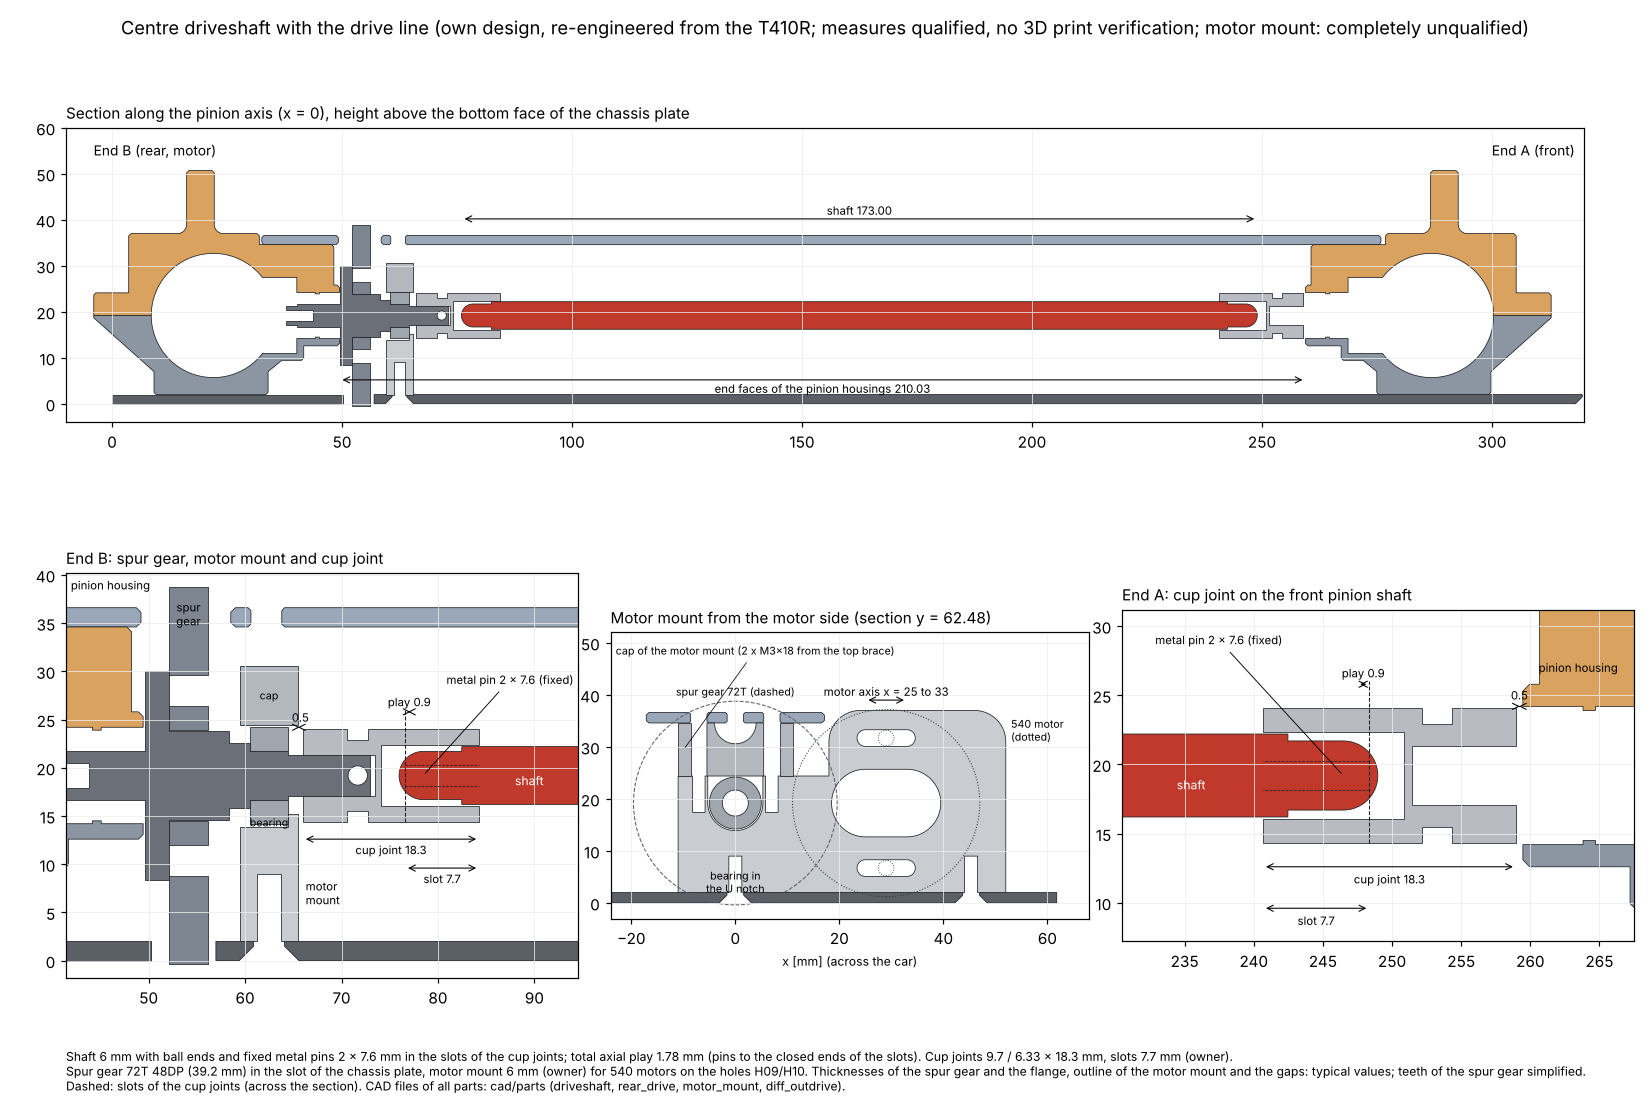
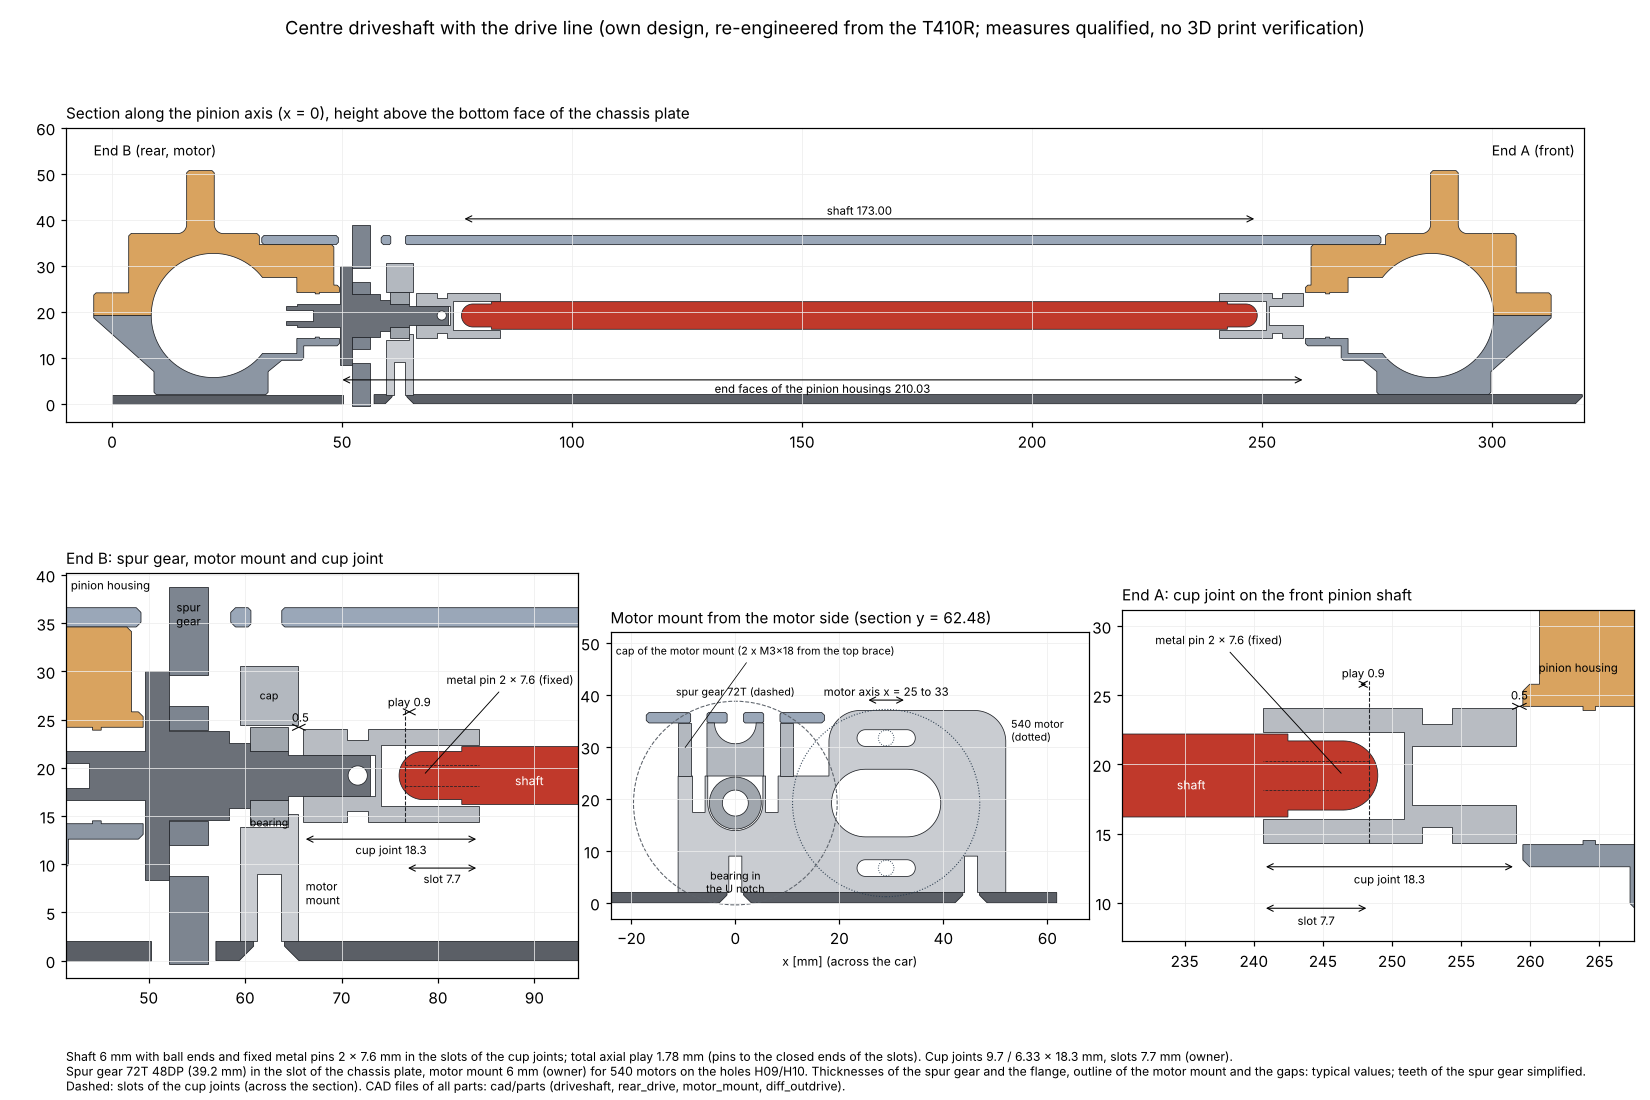
Mark the motor mount as measures qualified
- Motor mount with cap back to measures qualified, no 3D print verification
  (root readme, CAD readme, parts readme).
- Titles and notes of the drive line drawing and of the assembly pictures of
  the rear and the front drive updated.

Claude-Session: https://claude.ai/code/session_012MJxxFKjiSK74mxYNyHG3r

Changed region(s): [[0.0927, 0.0, 0.9273, 0.0309]]

diff --git a/scripts/cad/generate_driveshaft.py b/scripts/cad/generate_driveshaft.py
@@ -577,7 +577,7 @@ def drawing(path, p, lay, items):
     z = lay["z"]
     fig = plt.figure(figsize=(15, 10))
     fig.suptitle("Centre driveshaft with the drive line (own design, re-engineered from the T410R; measures "
-                 "qualified, no 3D print verification; motor mount: completely unqualified)", fontsize=12, y=0.985)
+                 "qualified, no 3D print verification)", fontsize=12, y=0.985)
     ax = fig.add_axes([0.04, 0.57, 0.92, 0.36])
     draw(ax)
     y0, y1 = lay["shaft"]
@@ -836,8 +836,8 @@ def drive_assembly_drawing(p, lp, path=ASSEMBLY_DRAWING):
                [(s, lab, pos) for s, lab, _, pos in moved])
         ax.set_title(f"{name}, exploded along the pinion axis: parts in the order on the shaft, from the pinion in the "
                      "bulkhead\nto the centre driveshaft", fontsize=9.5, loc="left")
-    fig.text(0.01, 0.012, "Status: pinion shafts, pinions, spur gear, bearings and retaining pins measures qualified, no 3D print "
-             "verification; motor mount with cap, cup joints: completely unqualified. CAD files: cad/parts (rear_drive, "
+    fig.text(0.01, 0.012, "Status: pinion shafts, pinions, spur gear, bearings, retaining pins and motor mount with cap: measures "
+             "qualified, no 3D print verification; cup joints: completely unqualified. CAD files: cad/parts (rear_drive, "
              "front_drive, motor_mount, driveshaft).", fontsize=8.5)
     fig.savefig(path, dpi=100)
     plt.close(fig)

diff --git a/readme.md b/readme.md
@@ -74,7 +74,7 @@ Re-engineered parts (own design, re-engineered from the T410R, not in the mass t
 | Cup joints of the centre driveshaft | 2 | $\color{red}\times$ Completely unqualified | `cad/parts/driveshaft` |
 | Rear pinion shaft with pinion 17T, spur gear 72T, bearings and retaining pin | 1 | $\color{gold}\blacktriangle$ Measures qualified, no 3D print verification | `cad/parts/rear_drive` |
 | Front pinion shaft with pinion 17T, bearings and retaining pin | 1 | $\color{gold}\blacktriangle$ Measures qualified, no 3D print verification | `cad/parts/front_drive` |
-| Motor mount with cap | 1 | $\color{red}\times$ Completely unqualified | `cad/parts/motor_mount` |
+| Motor mount with cap | 1 | $\color{gold}\blacktriangle$ Measures qualified, no 3D print verification | `cad/parts/motor_mount` |
 | Differential (End B) with ring gear 42T, inner gears and bearings | 1 | $\color{gold}\blacktriangle$ Measures qualified, no 3D print verification | `cad/parts/diff` |
 | Spool (End A) with ring gear 42T and bearings | 1 | $\color{gold}\blacktriangle$ Measures qualified, no 3D print verification | `cad/parts/diff` |
 | Diff outdrives | 4 | $\color{red}\times$ Completely unqualified | `cad/parts/diff_outdrive` |
@@ -90,7 +90,7 @@ Re-engineered parts (own design, re-engineered from the T410R, not in the mass t
 | Sway bars with holders, ball ends and drop links | 2 | $\color{red}\times$ Completely unqualified | `cad/running_gear/sway_bars` |
 | Dampers (standard 1:10 on-road, purchased) | 4 | $\color{red}\times$ Completely unqualified | Assembly only |
 
-* Status: $\color{green}\checkmark$ verified (test print or on the car), $\color{gold}\blacktriangle$ measures qualified, no 3D print verification, $\color{red}\times$ completely unqualified. All parts of the speedrun design are verified. Of the re-engineered parts, the pivot blocks are verified with a 3D printed prototype; the centre driveshaft, the drive lines (pinion shafts, pinions, spur gear) and the differentials are qualified by measurements (caliper and photos of the owner); the motor mount, the wishbones, the running gear and the other parts are not qualified. The parts marked red are first designs: they still need a lot of refinement (dimensions, strength, fit and function on the car) and are not ready for manufacturing. The bulkheads have radii and edge chamfers on the outer side for CNC milling; the inside of the parts is the verified geometry (see [edges of the outer shape](cad/readme.md#design-of-the-lower-bulkhead)). The original shock tower plates do not fit the speedrun upper bulkhead; the [speedrun shock towers](cad/readme.md#speedrun-shock-towers) are designed for it. All holes of the towers are at the positions of the original towers; the shock tower wall of the upper bulkhead is narrowed so that the rod ends of the camber links have space beside it. The status of each part, the open points and all files are described in the [CAD readme](cad/readme.md#speedrun-chassis).
+* Status: $\color{green}\checkmark$ verified (test print or on the car), $\color{gold}\blacktriangle$ measures qualified, no 3D print verification, $\color{red}\times$ completely unqualified. All parts of the speedrun design are verified. Of the re-engineered parts, the pivot blocks are verified with a 3D printed prototype; the centre driveshaft, the drive lines (pinion shafts, pinions, spur gear), the motor mount and the differentials are qualified by measurements (caliper and photos of the owner); the wishbones, the running gear and the other parts are not qualified. The parts marked red are first designs: they still need a lot of refinement (dimensions, strength, fit and function on the car) and are not ready for manufacturing. The bulkheads have radii and edge chamfers on the outer side for CNC milling; the inside of the parts is the verified geometry (see [edges of the outer shape](cad/readme.md#design-of-the-lower-bulkhead)). The original shock tower plates do not fit the speedrun upper bulkhead; the [speedrun shock towers](cad/readme.md#speedrun-shock-towers) are designed for it. All holes of the towers are at the positions of the original towers; the shock tower wall of the upper bulkhead is narrowed so that the rod ends of the camber links have space beside it. The status of each part, the open points and all files are described in the [CAD readme](cad/readme.md#speedrun-chassis).
 * The legend lists the colours of the speedrun parts and of the re-engineered parts. The inset at the right of the 3D view shows the differential at End B in section with the pinion (the design of the differential: [CAD readme](cad/readme.md#differentials)). The bottom row shows close-ups of End A and End B from the outer end and of the drive line at End B (spur gear, motor mount with cap, cup joint) from the middle of the car, without the top brace and the shock tower. The design of the running gear (caster, steering, Ackermann): [CAD readme](cad/readme.md#running-gear).
 * The assembly is available as a STEP file (`cad/assembly/speedrun_chassis_T410R.step`).
 

diff --git a/cad/readme.md b/cad/readme.md
@@ -92,7 +92,7 @@ Re-engineered parts (own design of the owner, re-engineered from the T410R, not 
 | [Cup joints of the centre driveshaft](#centre-driveshaft-and-drive-line) | 2 | `/parts/driveshaft` | $\color{red}\times$ Completely unqualified |
 | [Rear pinion shaft with pinion 17T, spur gear 72T, bearings and retaining pin](#centre-driveshaft-and-drive-line) | 1 | `/parts/rear_drive` | $\color{gold}\blacktriangle$ Measures qualified, no 3D print verification |
 | [Front pinion shaft with pinion 17T, bearings and retaining pin](#centre-driveshaft-and-drive-line) | 1 | `/parts/front_drive` | $\color{gold}\blacktriangle$ Measures qualified, no 3D print verification |
-| [Motor mount with cap](#centre-driveshaft-and-drive-line) | 1 | `/parts/motor_mount` | $\color{red}\times$ Completely unqualified |
+| [Motor mount with cap](#centre-driveshaft-and-drive-line) | 1 | `/parts/motor_mount` | $\color{gold}\blacktriangle$ Measures qualified, no 3D print verification |
 | [Differential (End B) with ring gear 42T, inner gears and bearings](#differentials) | 1 | `/parts/diff` | $\color{gold}\blacktriangle$ Measures qualified, no 3D print verification |
 | [Spool (End A) with ring gear 42T and bearings](#differentials) | 1 | `/parts/diff` | $\color{gold}\blacktriangle$ Measures qualified, no 3D print verification |
 | [Diff outdrives](#centre-driveshaft-and-drive-line) | 4 | `/parts/diff_outdrive` | $\color{red}\times$ Completely unqualified |
@@ -733,7 +733,7 @@ All files are stored in the directory `/parts/pivot_block`. They are generated w
 ### Centre driveshaft and drive line
 * **Author:** [@kleinnconrad](https://github.com/kleinnconrad)
 * **Description:** Model of the centre driveshaft of the Carten T410R between the cup joints of the two pinion shafts. The shaft has a ball end at each end with a metal pin (2.0 x 7.6 mm), which is fixed on the shaft. The cup joints are pushed onto the pinion shafts and secured with a retaining pin 2.0 x 7.6 mm through a cross hole; an O-ring in a groove of the cup joint holds the pin. The pins run in the slots of the cup joints, so the shaft turns with the cup joints. In the centred position, each pin has 0.5 mm to the closed end of its slot, so the shaft can move a little back and forth. At End A, the cup joint sits on the front pinion shaft beside the bulkhead. At End B (motor), the rear pinion shaft runs from the pinion in the bulkhead through a flange with the spur gear and the bearing in the motor mount (manual steps 5, 10 and 12); the cup joint sits on its end beyond the motor mount. All these parts are modelled as CAD files (see [files](#centre-driveshaft-and-drive-line)).
-* **Status:** $\color{gold}\blacktriangle$ Measures qualified, no 3D print verification: centre driveshaft, rear and front drive line (pinion shafts, pinions, spur gear, bearings, retaining pins; some dimensions from photos of the owner). $\color{red}\times$ Completely unqualified: motor mount with cap (not checked by the owner), cup joints and diff outdrives. The cup joints, the thickness of the motor mount and the spur gear (72T 48DP) are given by the owner, the positions of the motor mount and the spur gear are derived from the chassis plate, the outline of the motor mount and its cap follow the manual (steps 10 and 25). The thicknesses of the spur gear and the flange and the gaps are typical values (see [open points of the centre driveshaft](#centre-driveshaft-and-drive-line)).
+* **Status:** $\color{gold}\blacktriangle$ Measures qualified, no 3D print verification: centre driveshaft, motor mount with cap, rear and front drive line (pinion shafts, pinions, spur gear, bearings, retaining pins; some dimensions from photos of the owner). $\color{red}\times$ Completely unqualified: cup joints and diff outdrives. The cup joints, the thickness of the motor mount and the spur gear (72T 48DP) are given by the owner, the positions of the motor mount and the spur gear are derived from the chassis plate, the outline of the motor mount and its cap follow the manual (steps 10 and 25). The thicknesses of the spur gear and the flange and the gaps are typical values (see [open points of the centre driveshaft](#centre-driveshaft-and-drive-line)).
 
 ![Centre driveshaft with the drive line and the motor mount](../photos/cad_driveshaft_drawing.png)
 

diff --git a/cad/parts/readme.md b/cad/parts/readme.md
@@ -6,7 +6,7 @@ Status: $\color{green}\checkmark$ verified (test print or on the car), $\color{g
 * **`/pivot_block`**: Pivot blocks of the wishbones, long block (1 piece) and short block (3 pieces), STEP, STL and parameter file. Status: $\color{green}\checkmark$ verified (3D printed prototype, bores 5.0 mm for the hinge pins). Description and checks: see the [CAD readme](../readme.md#pivot-blocks).
 * **`/driveshaft`**: Centre driveshaft between the pinions of the two bulkheads, with the fixed metal pins, and the cup joints, STEP and STL; parameter file of all drive line parts. Status: $\color{gold}\blacktriangle$ measures qualified, no 3D print verification (centre driveshaft); cup joints: $\color{red}\times$ completely unqualified.
 * **`/rear_drive`**: Rear pinion shaft with flange, pinion 17T, spur gear 72T 48DP, bearing 5x10x4 and retaining pin of the cup joint, STEP and STL. Status: $\color{gold}\blacktriangle$ measures qualified, no 3D print verification.
-* **`/motor_mount`**: Motor mount for 540 motors and its cap, STEP and STL. Status: $\color{red}\times$ completely unqualified (not checked by the owner).
+* **`/motor_mount`**: Motor mount for 540 motors and its cap, STEP and STL. Status: $\color{gold}\blacktriangle$ measures qualified, no 3D print verification.
 * **`/camber_link`**: Camber links (4 pieces): turnbuckle M3x37, rod end, ball stud and the assembled front and rear link, STEP, STL and parameter file, generated with `scripts/cad/generate_camber_links.py`. Status: $\color{red}\times$ completely unqualified (rod ends and ball studs assumed). Description: see the [CAD readme](../readme.md#camber-links).
 * **`/front_drive`**: Front pinion shaft (End A), STEP and STL; pinion, bearings and retaining pin as in `/rear_drive`. Status: $\color{gold}\blacktriangle$ measures qualified, no 3D print verification.
 * **`/diff`**: Differential (End B): case, ring gear 42T with hub and hexagon bore, side gears 14T, spider gears 9T, cross pin, shims and bearing 10x15x4; spool (End A) with the same ring gear, bearings and outdrives; STEP and STL. Fits the bearing seats, the case cavity and the ring gear recess of the bulkhead and meshes with the pinion 17T. Status: $\color{gold}\blacktriangle$ measures qualified, no 3D print verification. Description: see the [CAD readme](../readme.md#differentials).
